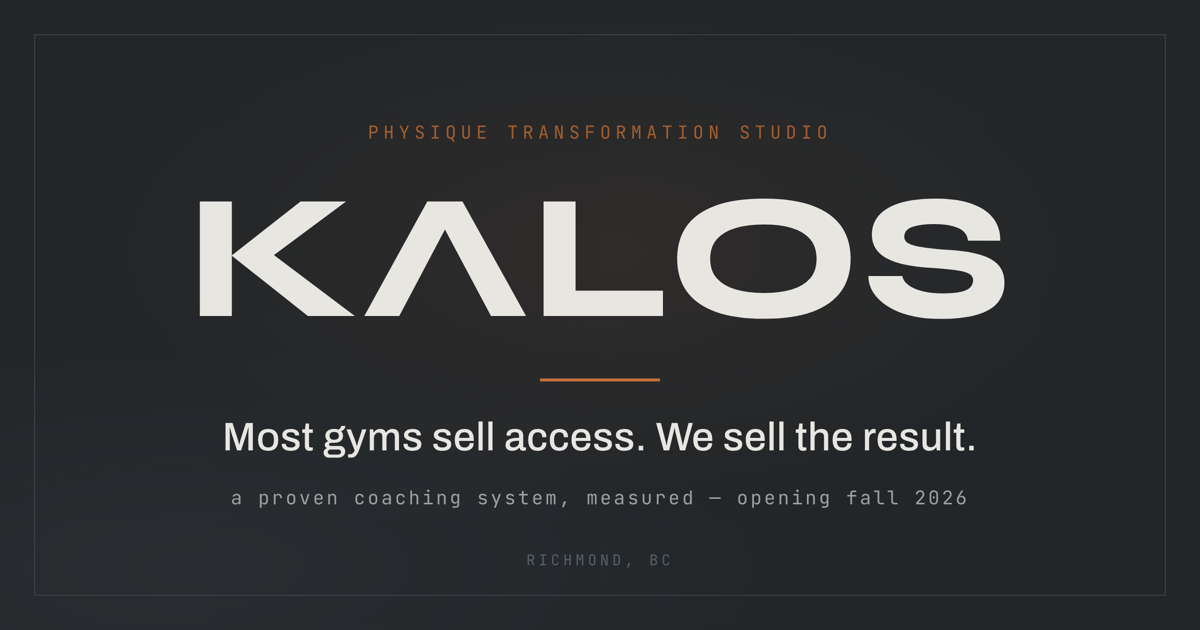
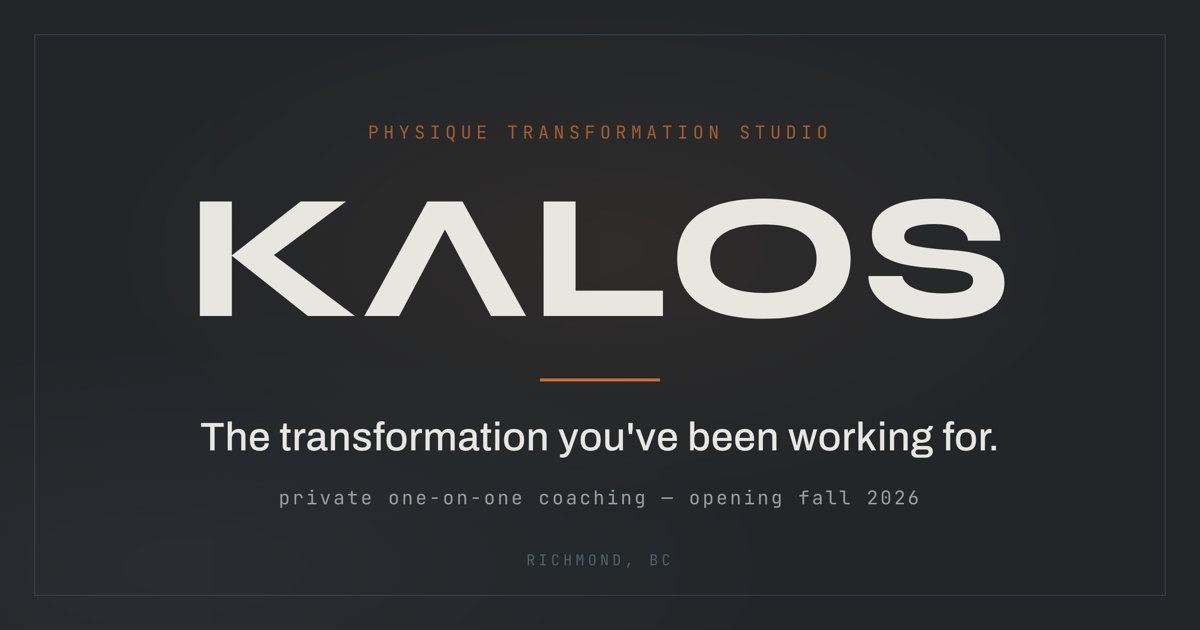
Rework landing copy: balanced sales voice + matching OG card/meta
Tighten the voice per editorial guidance — consistent naming, sentence-case
headings, less puffery — while keeping it persuasive. Refresh OG card line and
og/twitter meta to match ('The transformation you've been working for.').

Claude-Session: https://claude.ai/code/session_01BDjYzmorP6KWkhDbBAjBx1

Changed region(s): [[0.1542, 0.6635, 0.8325, 0.7238], [0.2158, 0.754, 0.8017, 0.8143]]

diff --git a/index.html b/index.html
@@ -4,9 +4,9 @@
 <meta charset="UTF-8">
 <meta name="viewport" content="width=device-width, initial-scale=1.0">
 <title>KALOS — Physique Transformation Studio · Richmond, BC</title>
-<meta name="description" content="Kalos is a private, appointment-only transformation studio in Richmond, BC. A proven coaching method — the same standard from every coach — run by software that tracks every rep, so your progress is something you can see. Opening Fall 2026.">
+<meta name="description" content="Private one-on-one coaching for physique transformation in Richmond, BC. A proven method, the same standard from every coach, tracked every session. Opening fall 2026.">
 <meta property="og:title" content="KALOS — Physique Transformation Studio · Richmond, BC">
-<meta property="og:description" content="We don't sell access. We sell the result. A proven coaching system, run by software that tracks everything, so your transformation is measured and provable. Opening Fall 2026.">
+<meta property="og:description" content="Private one-on-one coaching for physique transformation. A proven method, the same standard from every coach, tracked every session. Opening fall 2026.">
 <meta property="og:type" content="website">
 <meta property="og:url" content="https://kalospt.ca/">
 <meta property="og:site_name" content="KALOS">
@@ -14,10 +14,10 @@
 <meta property="og:image:width" content="1200">
 <meta property="og:image:height" content="630">
 <meta property="og:image:type" content="image/png">
-<meta property="og:image:alt" content="KALOS — Most gyms sell access. We sell the result. Physique transformation studio, Richmond, BC.">
+<meta property="og:image:alt" content="KALOS — the transformation you've been working for. Physique transformation studio, Richmond, BC.">
 <meta name="twitter:card" content="summary_large_image">
 <meta name="twitter:title" content="KALOS — Physique Transformation Studio · Richmond, BC">
-<meta name="twitter:description" content="Most gyms sell access. We sell the result. A proven coaching system, measured — opening Fall 2026.">
+<meta name="twitter:description" content="Private one-on-one coaching for physique transformation. A proven method, tracked every session. Opening fall 2026.">
 <meta name="twitter:image" content="https://kalospt.ca/og.png">
 <link rel="preconnect" href="https://fonts.googleapis.com">
 <link rel="preconnect" href="https://fonts.gstatic.com" crossorigin>
@@ -297,9 +297,9 @@
     <a href="#" class="nav-wordmark" aria-label="KALOS">KΛLOS</a>
     <div class="nav-right">
       <div class="nav-links">
-        <a href="#what" class="nav-link">What it is</a>
-        <a href="#method" class="nav-link">The method</a>
-        <a href="#platform" class="nav-link">The platform</a>
+        <a href="#what" class="nav-link">Overview</a>
+        <a href="#method" class="nav-link">Method</a>
+        <a href="#platform" class="nav-link">Software</a>
         <a href="#packages" class="nav-link">Packages</a>
       </div>
       <a href="https://app.kalospt.ca/consultation" class="nav-cta">Book a consultation</a>
@@ -310,17 +310,18 @@
   <section class="hero">
     <h1 class="hero-wordmark" aria-label="KALOS">KΛLOS</h1>
     <div class="steel-rule steel-rule--short steel-rule--center"></div>
-    <p class="hero-tagline">physique transformation, engineered</p>
+    <p class="hero-tagline">personal training · richmond, bc</p>
     <p class="hero-statement">
-      Most gyms sell you access. <strong>We sell the result.</strong>
+      The transformation you've been working for — on a system built to deliver it.
     </p>
     <p class="hero-sub">
-      A private coaching studio in Richmond built on a proven system — the same method from every
-      coach — run by software that tracks every rep, so your progress is something you can see, not just feel.
+      Kalos is private, one-on-one coaching with one focus: changing how your body looks. A proven method,
+      the same standard from every coach, and software that tracks every rep — so your progress is something
+      you can see, not just hope for.
     </p>
     <div class="hero-actions">
-      <a href="https://app.kalospt.ca/consultation" class="btn-primary">Book a free consultation</a>
-      <a href="#what" class="btn-ghost">See what we are</a>
+      <a href="https://app.kalospt.ca/consultation" class="btn-primary">Book your free consultation</a>
+      <a href="#what" class="btn-ghost">See how it works</a>
     </div>
     <div class="hero-scroll">
       <span class="hero-scroll-text">Scroll</span>
@@ -332,30 +333,30 @@
   <section class="section" id="what">
     <div class="section-inner">
       <div class="steel-rule reveal"></div>
-      <p class="section-label reveal" style="margin-top:64px;">01 — What Kalos is</p>
-      <h2 class="section-heading reveal reveal-delay-1">It's a transformation studio. Not a gym.</h2>
+      <p class="section-label reveal" style="margin-top:64px;">01 — Overview</p>
+      <h2 class="section-heading reveal reveal-delay-1">Coaching built to get you results.</h2>
       <p class="section-body reveal reveal-delay-2">
-        You don't get a key card and figure it out alone. Kalos is private, one-on-one coaching with a
-        single focus: changing how your body looks — and proving it changed. You train by appointment with
-        a coach who's already planned your session. You follow a method that's been proven to work. And
-        every rep, lift, and photo is tracked, so your progress lives on the screen, not just in the mirror.
+        Kalos isn't a gym you wander into and figure out alone. It's a private studio with a coach in your
+        corner and one job: transforming how your body looks. You train one-on-one, by appointment, on a plan
+        built for your goal — ready before you walk in. Every set is tracked, so the work you put in turns into
+        progress you can watch add up.
       </p>
       <div class="facts">
         <div class="fact reveal">
           <div class="fact-num">1:1</div>
-          <div class="fact-label">Private coaching,<br>every session</div>
+          <div class="fact-label">A coach with you<br>every session</div>
         </div>
         <div class="fact reveal reveal-delay-1">
           <div class="fact-num">By&nbsp;appt</div>
-          <div class="fact-label">Appointment-only.<br>No open gym floor</div>
+          <div class="fact-label">The floor to yourself.<br>No open gym</div>
         </div>
         <div class="fact reveal reveal-delay-2">
-          <div class="fact-num">Every&nbsp;rep</div>
-          <div class="fact-label">Tracked &amp; on the record,<br>not guessed</div>
+          <div class="fact-num">Tracked</div>
+          <div class="fact-label">Every set,<br>on the record</div>
         </div>
         <div class="fact reveal reveal-delay-3">
-          <div class="fact-num">One&nbsp;goal</div>
-          <div class="fact-label">Physique transformation —<br>nothing else</div>
+          <div class="fact-num">One&nbsp;focus</div>
+          <div class="fact-label">Physique transformation,<br>nothing else</div>
         </div>
       </div>
     </div>
@@ -364,28 +365,30 @@
   <!-- ── The method (bone) ── -->
   <section class="section section--bone" id="method">
     <div class="section-inner">
-      <p class="section-label reveal">02 — The method is the product</p>
-      <h2 class="section-heading reveal reveal-delay-1">You're not buying an hour. You're buying a system.</h2>
+      <p class="section-label reveal">02 — Method</p>
+      <h2 class="section-heading reveal reveal-delay-1">A method that's proven to work.</h2>
       <p class="section-body reveal reveal-delay-2">
-        Most studios live or die on which trainer you happen to get. We built Kalos the other way around:
-        the result comes from the method, not the individual. The system does the heavy lifting — your
-        coach makes it personal. Whoever you train with, you get the same standard.
+        Most studios are only as good as the trainer you happen to get. Kalos is built the other way. Every
+        coach delivers the same proven method — created by our head coach, an IFBB pro, over decades of
+        competition and real client transformations. It's documented, taught, and sharpened on results. You
+        get a program built from it and dialed to your goal. The method does the heavy lifting; your coach
+        makes it personal.
       </p>
       <div class="pillars-grid">
         <div class="pillar reveal">
           <p class="pillar-number">01</p>
           <h3 class="pillar-heading">Proven, not improvised</h3>
-          <p class="pillar-body">Our method comes from an IFBB pro head coach with decades of competition and client transformations behind it. It's written down, taught to every coach, and refined on real results — not made up session to session.</p>
+          <p class="pillar-body">Decades of competition and client results, written into a method every coach is trained to deliver.</p>
         </div>
         <div class="pillar reveal reveal-delay-1">
           <p class="pillar-number">02</p>
-          <h3 class="pillar-heading">One standard, every coach</h3>
-          <p class="pillar-body">Every Kalos coach delivers the same system to the same standard. Your result doesn't ride on getting lucky with a trainer — it rides on a method that's been engineered to work, consistently.</p>
+          <h3 class="pillar-heading">The same standard, every coach</h3>
+          <p class="pillar-body">Your result doesn't ride on luck. Whoever you train with, you get the method as designed.</p>
         </div>
         <div class="pillar reveal reveal-delay-2">
           <p class="pillar-number">03</p>
-          <h3 class="pillar-heading">Built around your goal</h3>
-          <p class="pillar-body">Standardized doesn't mean cookie-cutter. You start with one clear, measurable goal, and your program — training, nutrition, cardio — is prescribed to hit it. The system is fixed; the plan is yours.</p>
+          <h3 class="pillar-heading">Built around you</h3>
+          <p class="pillar-body">One clear, measurable goal, and a complete plan to hit it: training, nutrition, and cardio.</p>
         </div>
       </div>
     </div>
@@ -394,28 +397,29 @@
   <!-- ── The platform ── -->
   <section class="section" id="platform">
     <div class="section-inner">
-      <p class="section-label reveal">03 — The platform</p>
-      <h2 class="section-heading reveal reveal-delay-1">If it isn't measured, it didn't happen.</h2>
+      <p class="section-label reveal">03 — Software</p>
+      <h2 class="section-heading reveal reveal-delay-1">Watch your progress add up.</h2>
       <p class="section-body reveal reveal-delay-2">
-        We built our own software to run the method — the right program and weights waiting the moment your
-        session starts, and everything you do turned into proof you're getting better. Here, the data isn't
-        admin. It's the motivation.
+        We built our own software to run the method and make your progress impossible to miss. Your coach
+        starts every session with your plan and the right weights already loaded. Everything you lift is
+        logged. In your account, your records, strength trends, and progress photos stack up week after
+        week — proof that it's working.
       </p>
       <div class="pillars-grid">
         <div class="pillar reveal">
           <p class="pillar-number">01</p>
-          <h3 class="pillar-heading">Every session, on the record</h3>
-          <p class="pillar-body">Exercises, weights, reps — logged every time and stitched into a history you can scroll. You always know exactly what you lifted last, and how far you've come.</p>
+          <h3 class="pillar-heading">Every session, logged</h3>
+          <p class="pillar-body">Exactly what you lifted, every time. You always know your numbers and how far you've come.</p>
         </div>
         <div class="pillar reveal reveal-delay-1">
           <p class="pillar-number">02</p>
-          <h3 class="pillar-heading">Progress you can watch</h3>
-          <p class="pillar-body">Personal records, strength trends, progress photos. The certainty you're paying for becomes something you can actually see happen — week over week, in numbers.</p>
+          <h3 class="pillar-heading">Progress you can see</h3>
+          <p class="pillar-body">Personal records, strength trends, and private progress photos — your transformation, in the data.</p>
         </div>
         <div class="pillar reveal reveal-delay-2">
           <p class="pillar-number">03</p>
-          <h3 class="pillar-heading">A room with momentum</h3>
-          <p class="pillar-body">Leaderboards and shared personal records mean you walk in knowing everyone's chasing the same standard. Progress is contagious — and here, it's visible. You're in it together.</p>
+          <h3 class="pillar-heading">A room that pushes you</h3>
+          <p class="pillar-body">Leaderboards and shared PRs put you among people chasing the same thing. Opt in, and let it pull you forward.</p>
         </div>
       </div>
     </div>
@@ -424,28 +428,28 @@
   <!-- ── How it works (bone) ── -->
   <section class="section section--bone" id="how">
     <div class="section-inner">
-      <p class="section-label reveal">04 — How it starts</p>
-      <h2 class="section-heading reveal reveal-delay-1">Four steps to your first session.</h2>
+      <p class="section-label reveal">04 — Start</p>
+      <h2 class="section-heading reveal reveal-delay-1">Start in four steps.</h2>
       <div class="steps-grid">
         <div class="step reveal">
           <p class="step-num">STEP 01</p>
           <h3 class="step-title">Book a consultation</h3>
-          <p class="step-body">Tell us your goal. A coach reaches out within two business days — no pressure, no commitment.</p>
+          <p class="step-body">Tell us your goal. A coach reaches out within two business days — no pressure.</p>
         </div>
         <div class="step reveal reveal-delay-1">
           <p class="step-num">STEP 02</p>
           <h3 class="step-title">Get matched</h3>
-          <p class="step-body">We pair you with the right coach for your goal and personality. No trainer roulette — we make the call.</p>
+          <p class="step-body">We pair you with the right coach for your goal. No guesswork, no trainer roulette.</p>
         </div>
         <div class="step reveal reveal-delay-2">
           <p class="step-num">STEP 03</p>
           <h3 class="step-title">Get your plan</h3>
-          <p class="step-body">A clear, measurable goal and a complete program: training, nutrition, and cardio, prescribed to your target.</p>
+          <p class="step-body">A clear goal and a complete program: training, nutrition, and cardio.</p>
         </div>
         <div class="step reveal reveal-delay-3">
           <p class="step-num">STEP 04</p>
           <h3 class="step-title">Transform</h3>
-          <p class="step-body">Train, track, and watch the numbers move. We own the system; you own the result.</p>
+          <p class="step-body">Train, track, and watch the numbers move. We run the system; you get the result.</p>
         </div>
       </div>
     </div>
@@ -457,11 +461,11 @@
   <section class="section" id="packages">
     <div class="section-inner">
       <p class="section-label reveal">05 — Packages</p>
-      <h2 class="section-heading reveal reveal-delay-1">Commit to the result.</h2>
+      <h2 class="section-heading reveal reveal-delay-1">Choose your commitment.</h2>
       <p class="section-body reveal reveal-delay-2">
-        Training is sold in session packages, not monthly memberships — because a transformation is a block
-        of committed work, not an auto-renew you forget about. Every package includes the full system:
-        programming, nutrition, tracking, and your coach. The longer you commit, the lower the per-session rate.
+        Kalos sells training in packages, not memberships — because real change takes a committed block of
+        work, not a monthly auto-renew. Every package includes your coach, your program, nutrition, and full
+        tracking. The bigger the commitment, the lower your per-session rate.
       </p>
       <div class="packages-grid">
         <div class="package reveal">
@@ -469,31 +473,27 @@
           <p class="package-tag">Get started</p>
           <p class="package-rate">$120<span> / session</span></p>
           <p class="package-sessions">12 sessions</p>
-          <p class="package-desc">A focused entry into the system.</p>
         </div>
         <div class="package reveal reveal-delay-1">
           <p class="package-name">Committed</p>
-          <p class="package-tag">Build momentum</p>
+          <p class="package-tag">Build real momentum</p>
           <p class="package-rate">$110<span> / session</span></p>
           <p class="package-sessions">24 sessions</p>
-          <p class="package-desc">Enough runway to see real change.</p>
         </div>
         <div class="package reveal reveal-delay-2">
           <p class="package-name">Transformation</p>
-          <p class="package-tag">Go all in</p>
+          <p class="package-tag">A full transformation</p>
           <p class="package-rate">$105<span> / session</span></p>
           <p class="package-sessions">36 sessions</p>
-          <p class="package-desc">A complete transformation block.</p>
         </div>
         <div class="package package--feature reveal reveal-delay-3">
           <p class="package-name">Elite</p>
-          <p class="package-tag">Best rate</p>
+          <p class="package-tag">All in — best rate</p>
           <p class="package-rate">$100<span> / session</span></p>
           <p class="package-sessions">48 sessions</p>
-          <p class="package-desc">The full journey, at the lowest per-session rate.</p>
         </div>
       </div>
-      <p class="packages-note reveal">All prices in CAD, per session, before 5% GST. Sessions valid 180 days · payment plans available on larger packages.</p>
+      <p class="packages-note reveal">Prices in CAD, before 5% GST. Sessions valid 180 days · payment plans available on larger packages.</p>
     </div>
   </section>
 
@@ -501,11 +501,11 @@
   <section class="cta-section">
     <div class="steel-rule steel-rule--short steel-rule--center reveal" style="margin-bottom: 48px;"></div>
     <p class="cta-location reveal">Richmond, BC</p>
-    <h2 class="cta-date reveal reveal-delay-1">Coming Fall 2026</h2>
+    <h2 class="cta-date reveal reveal-delay-1">Opening fall 2026</h2>
     <p class="cta-sub reveal reveal-delay-2">
-      Founding clients start now. Book a complimentary consultation — a coach follows up within two business days.
+      Be first through the door. Book a free consultation and a coach follows up within two business days.
     </p>
-    <a href="https://app.kalospt.ca/consultation" class="btn-primary reveal reveal-delay-3">Book a free consultation</a>
+    <a href="https://app.kalospt.ca/consultation" class="btn-primary reveal reveal-delay-3">Book your free consultation</a>
   </section>
 
   <!-- ── Footer ── -->
@@ -516,15 +516,15 @@
         <div>
           <p class="footer-wordmark" aria-label="KALOS">KΛLOS</p>
           <p class="footer-desc">
-            A private physique-transformation studio in Richmond, BC. A proven coaching method, the same
-            standard from every coach, measured by software — so the result is engineered, not hoped for.
+            Private, one-on-one coaching for physique transformation in Richmond, BC. One proven method,
+            every coach. Every session tracked.
           </p>
         </div>
         <div>
           <p class="footer-col-title">Explore</p>
-          <a href="#what" class="footer-link">What it is</a>
-          <a href="#method" class="footer-link">The method</a>
-          <a href="#platform" class="footer-link">The platform</a>
+          <a href="#what" class="footer-link">Overview</a>
+          <a href="#method" class="footer-link">Method</a>
+          <a href="#platform" class="footer-link">Software</a>
           <a href="#packages" class="footer-link">Packages</a>
         </div>
         <div>
